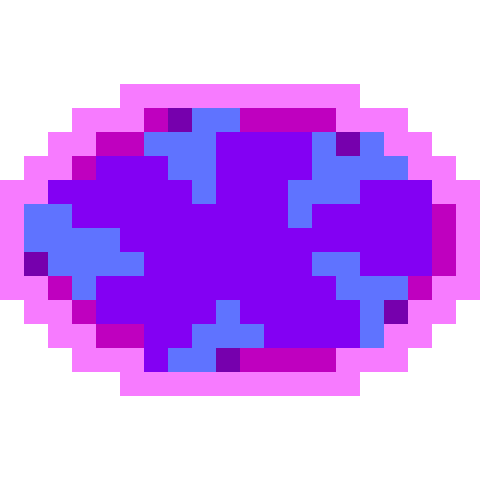
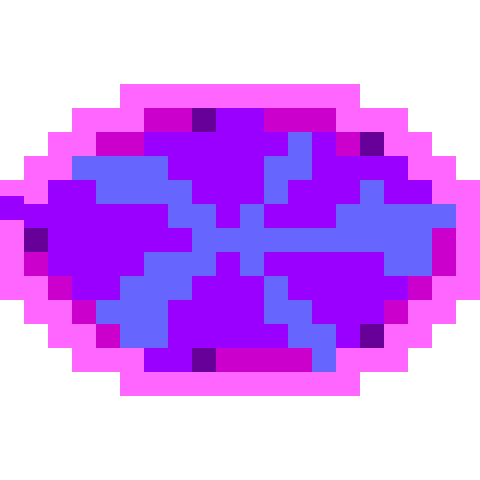
fixed resource animation by redraw

Changed region(s): [[0.0, 0.2188, 0.9688, 0.7812]]

diff --git a/README.md b/README.md
@@ -360,4 +360,4 @@ A játékot parancssorból lehet elindítani, onnatól a játékmenet lényegi r
 - [Enemy](https://opengameart.org/content/enemy-slave)
 - [Bomb](https://opengameart.org/content/16-bit-animated-bomb)
 - [BombFire](https://opengameart.org/content/fireflame)
-- [Exit](http://pancakebobapps.wix.com/apps)
+- [Exit](https://opengameart.org/users/rrcaseyr)
